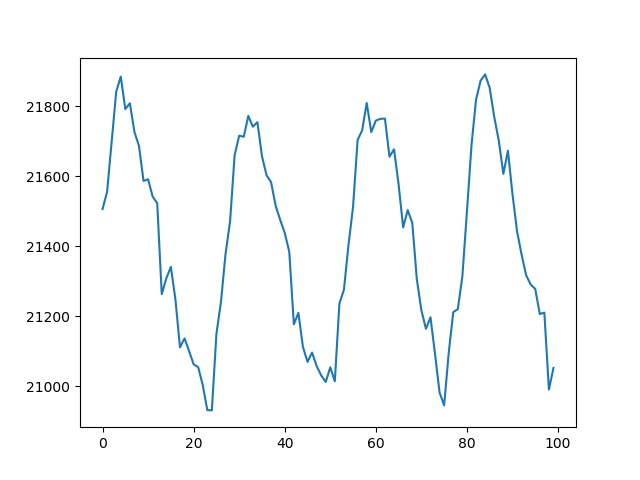
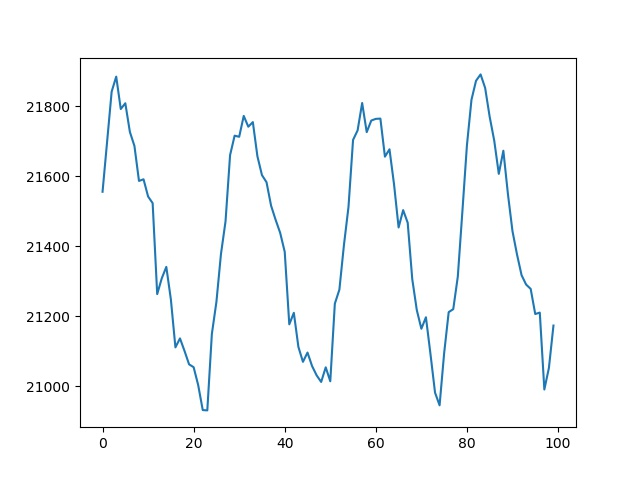
'auto'

Changed region(s): [[0.4375, 0.1562, 0.8438, 0.8438], [0.1562, 0.1562, 0.4375, 0.875], [0.8438, 0.6562, 0.875, 0.8125]]

diff --git a/README.md b/README.md
@@ -1,5 +1,5 @@
 Frizider live: 5
-21052.641666666666 
+21173.74166666667 
 1
 Temperatura:
 
